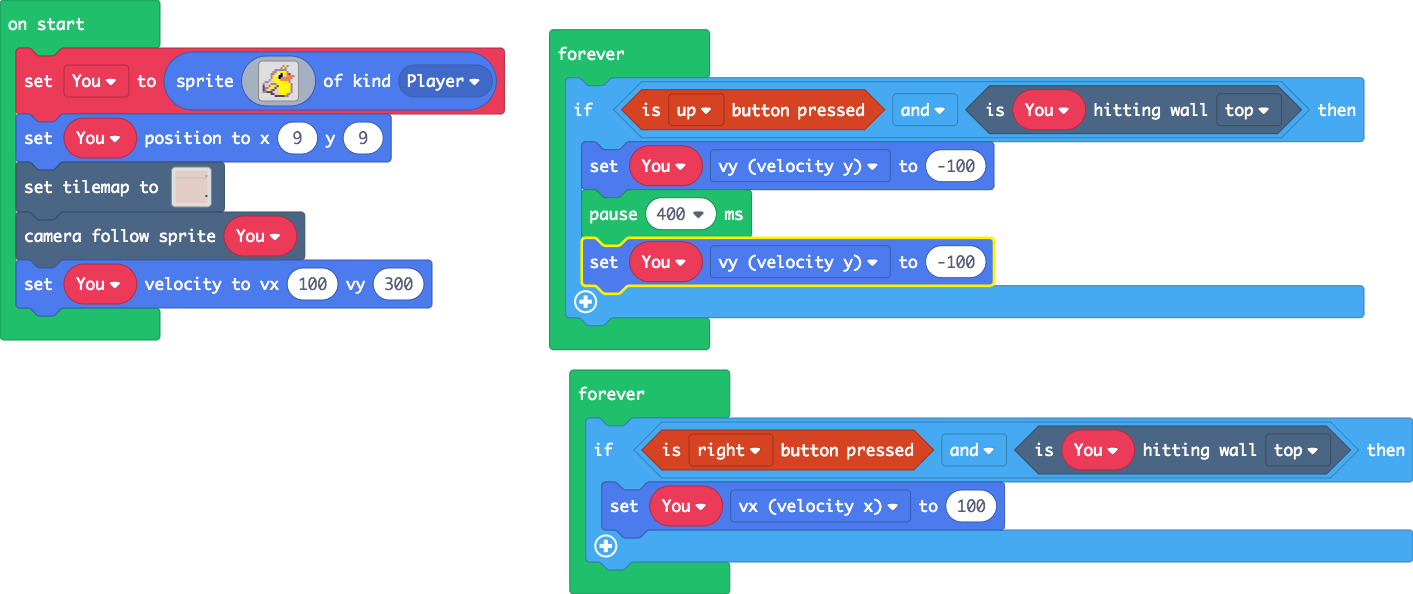
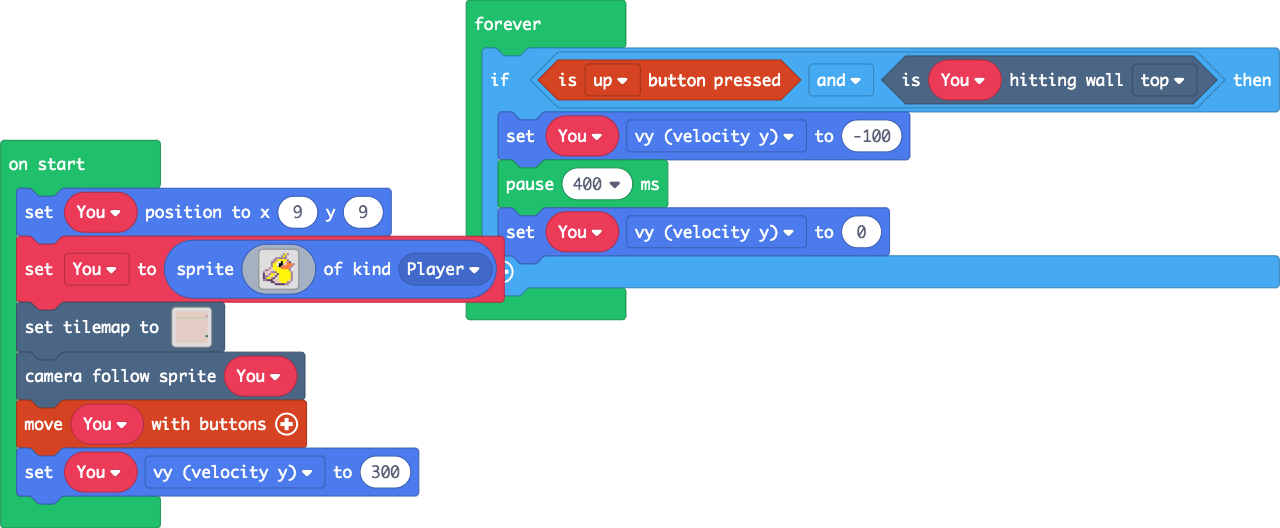
Update main.blocks, main.ts

diff --git a/main.ts b/main.ts
@@ -57,7 +57,9 @@ namespace myTiles {
 . . . . . . . . . . . . . . . . 
 `
 }
-let You = sprites.create(img`
+let You: Sprite = null
+You.setPosition(9, 9)
+You = sprites.create(img`
 . . . . . . . . . . b 5 b . . . 
 . . . . . . . . . b 5 b . . . . 
 . . . . . . b b b b b b . . . . 
@@ -75,7 +77,6 @@ b b c c c d d d 5 5 5 5 5 d b .
 . . . . c c d d d 5 5 5 b b . . 
 . . . . . . c c c c c b b . . . 
 `, SpriteKind.Player)
-You.setPosition(9, 9)
 tiles.setTilemap(tiles.createTilemap(
             hex`1000100002020202020202020202020202020202020202020202020202020202020202020202020202020202020202020202020703030303030303030303030303030303020202020202020202020202020202020202020202020202020202020202020202020202020202020202020202020202020202020202020202020202020202020202020202020202020202020202020202020202020202020202020202020202020202020202020202020202020202020202020202020202020202020202020202020202020202020202020202020204020202020202020202020202020202020202020202020202020202020202020202020202020202020202020202020202`,
             img`
@@ -100,16 +101,12 @@ tiles.setTilemap(tiles.createTilemap(
             TileScale.Sixteen
         ))
 scene.cameraFollowSprite(You)
-You.setVelocity(100, 300)
+controller.moveSprite(You)
+You.vy = 300
 forever(function () {
     if (controller.up.isPressed() && You.isHittingTile(CollisionDirection.Top)) {
         You.vy = -100
         pause(400)
-        You.vy = -100
-    }
-})
-forever(function () {
-    if (controller.right.isPressed() && You.isHittingTile(CollisionDirection.Top)) {
-        You.vx = 100
+        You.vy = 0
     }
 })
